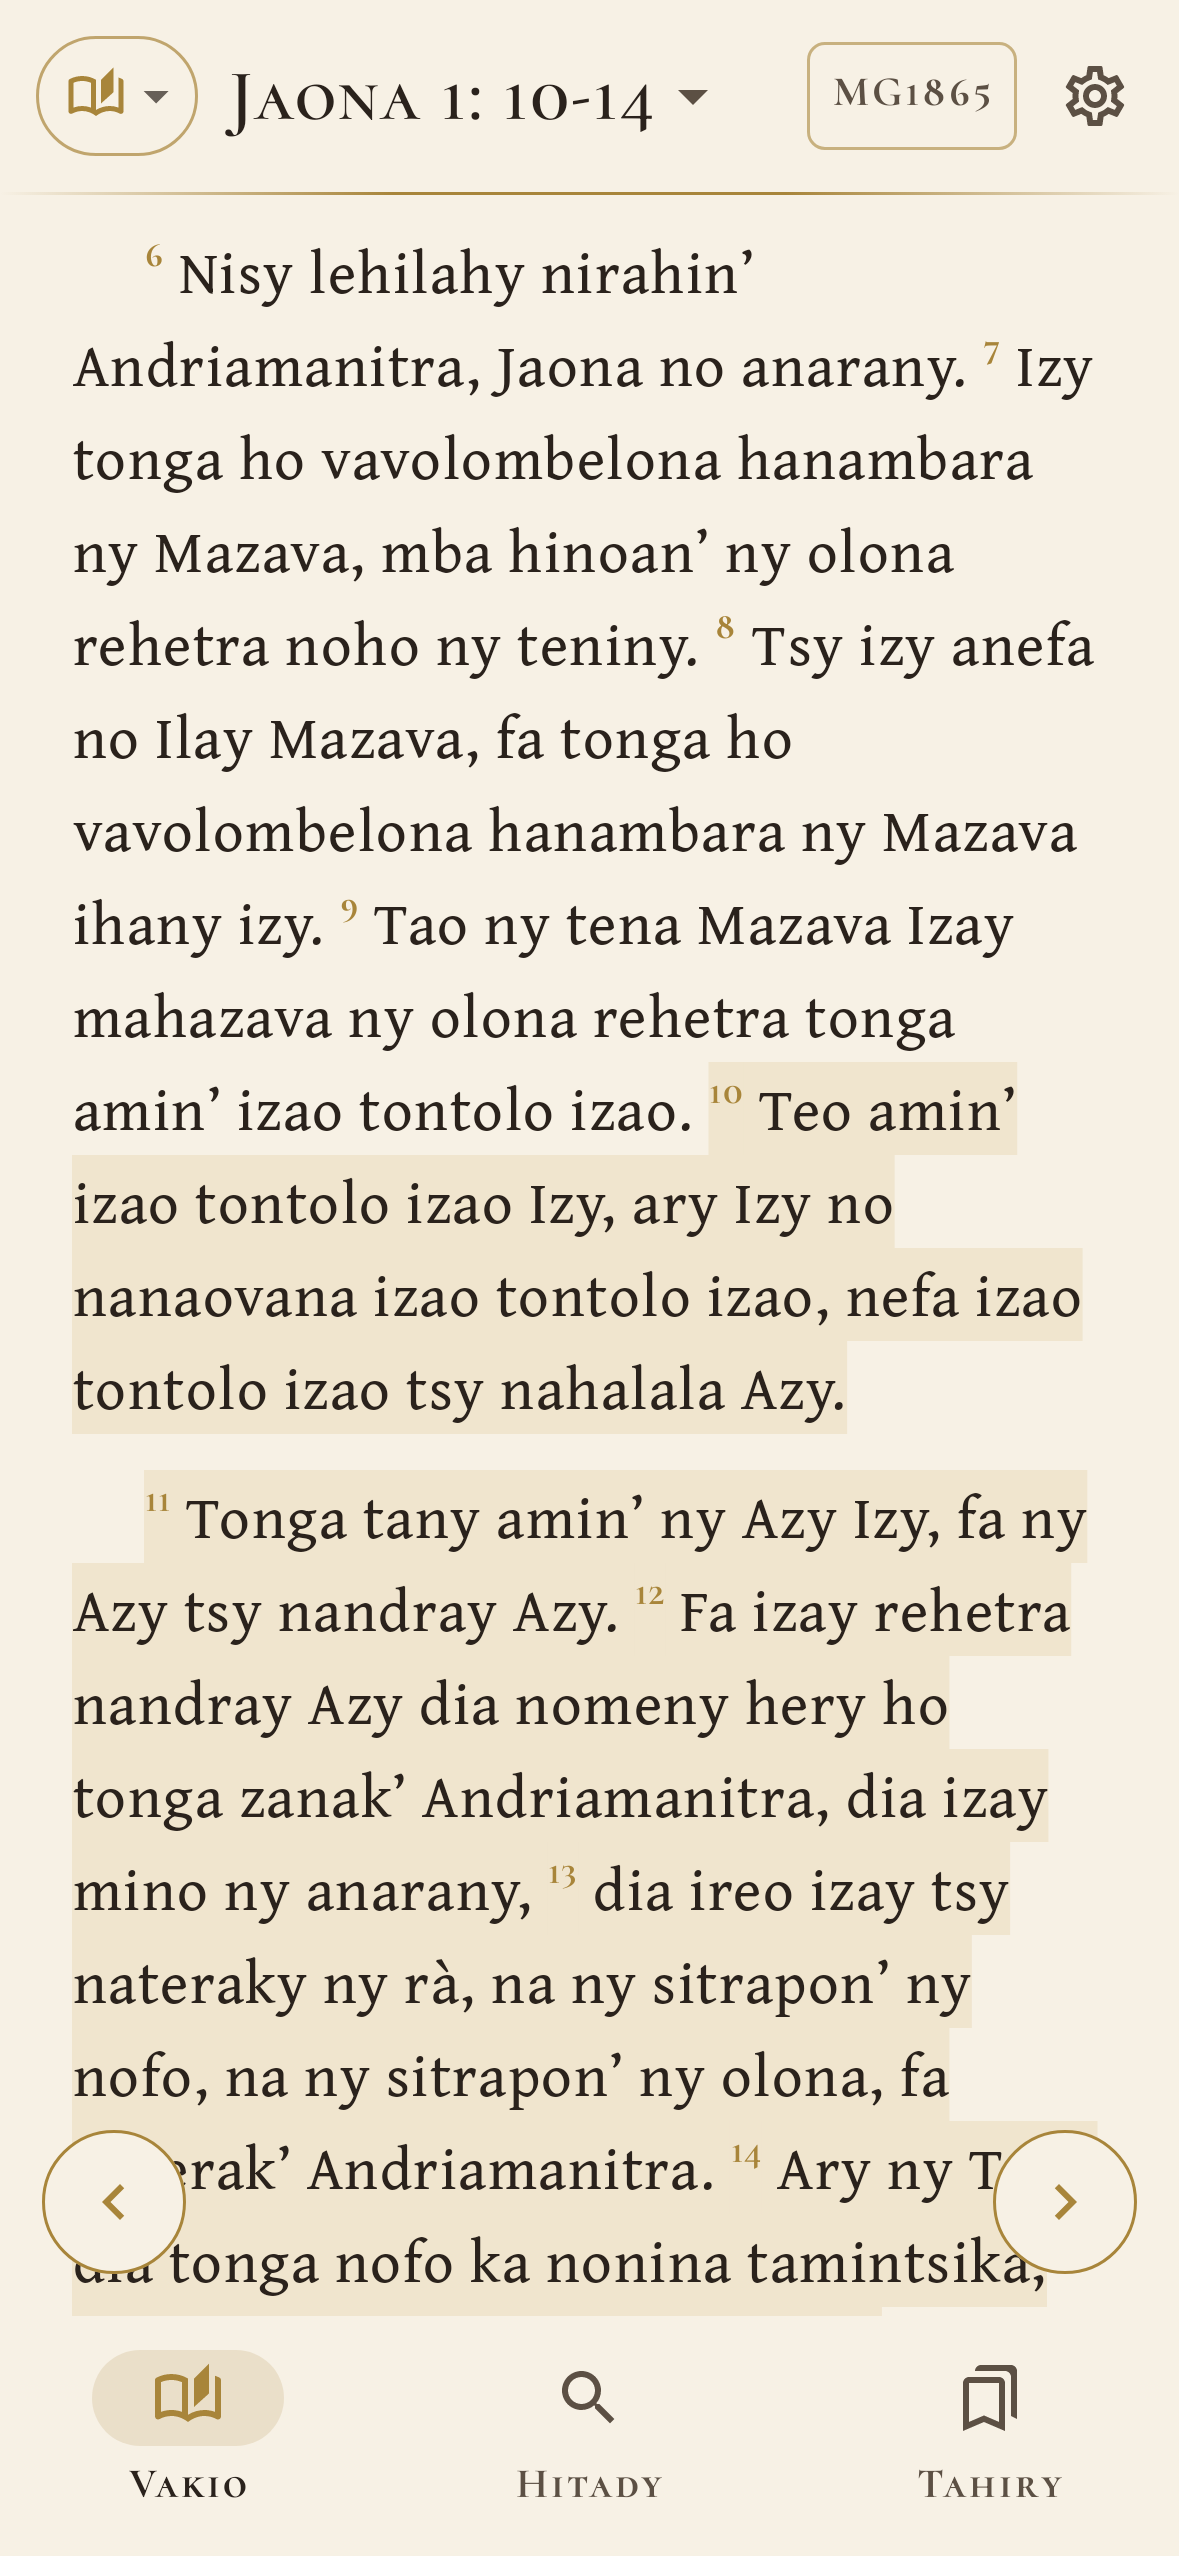
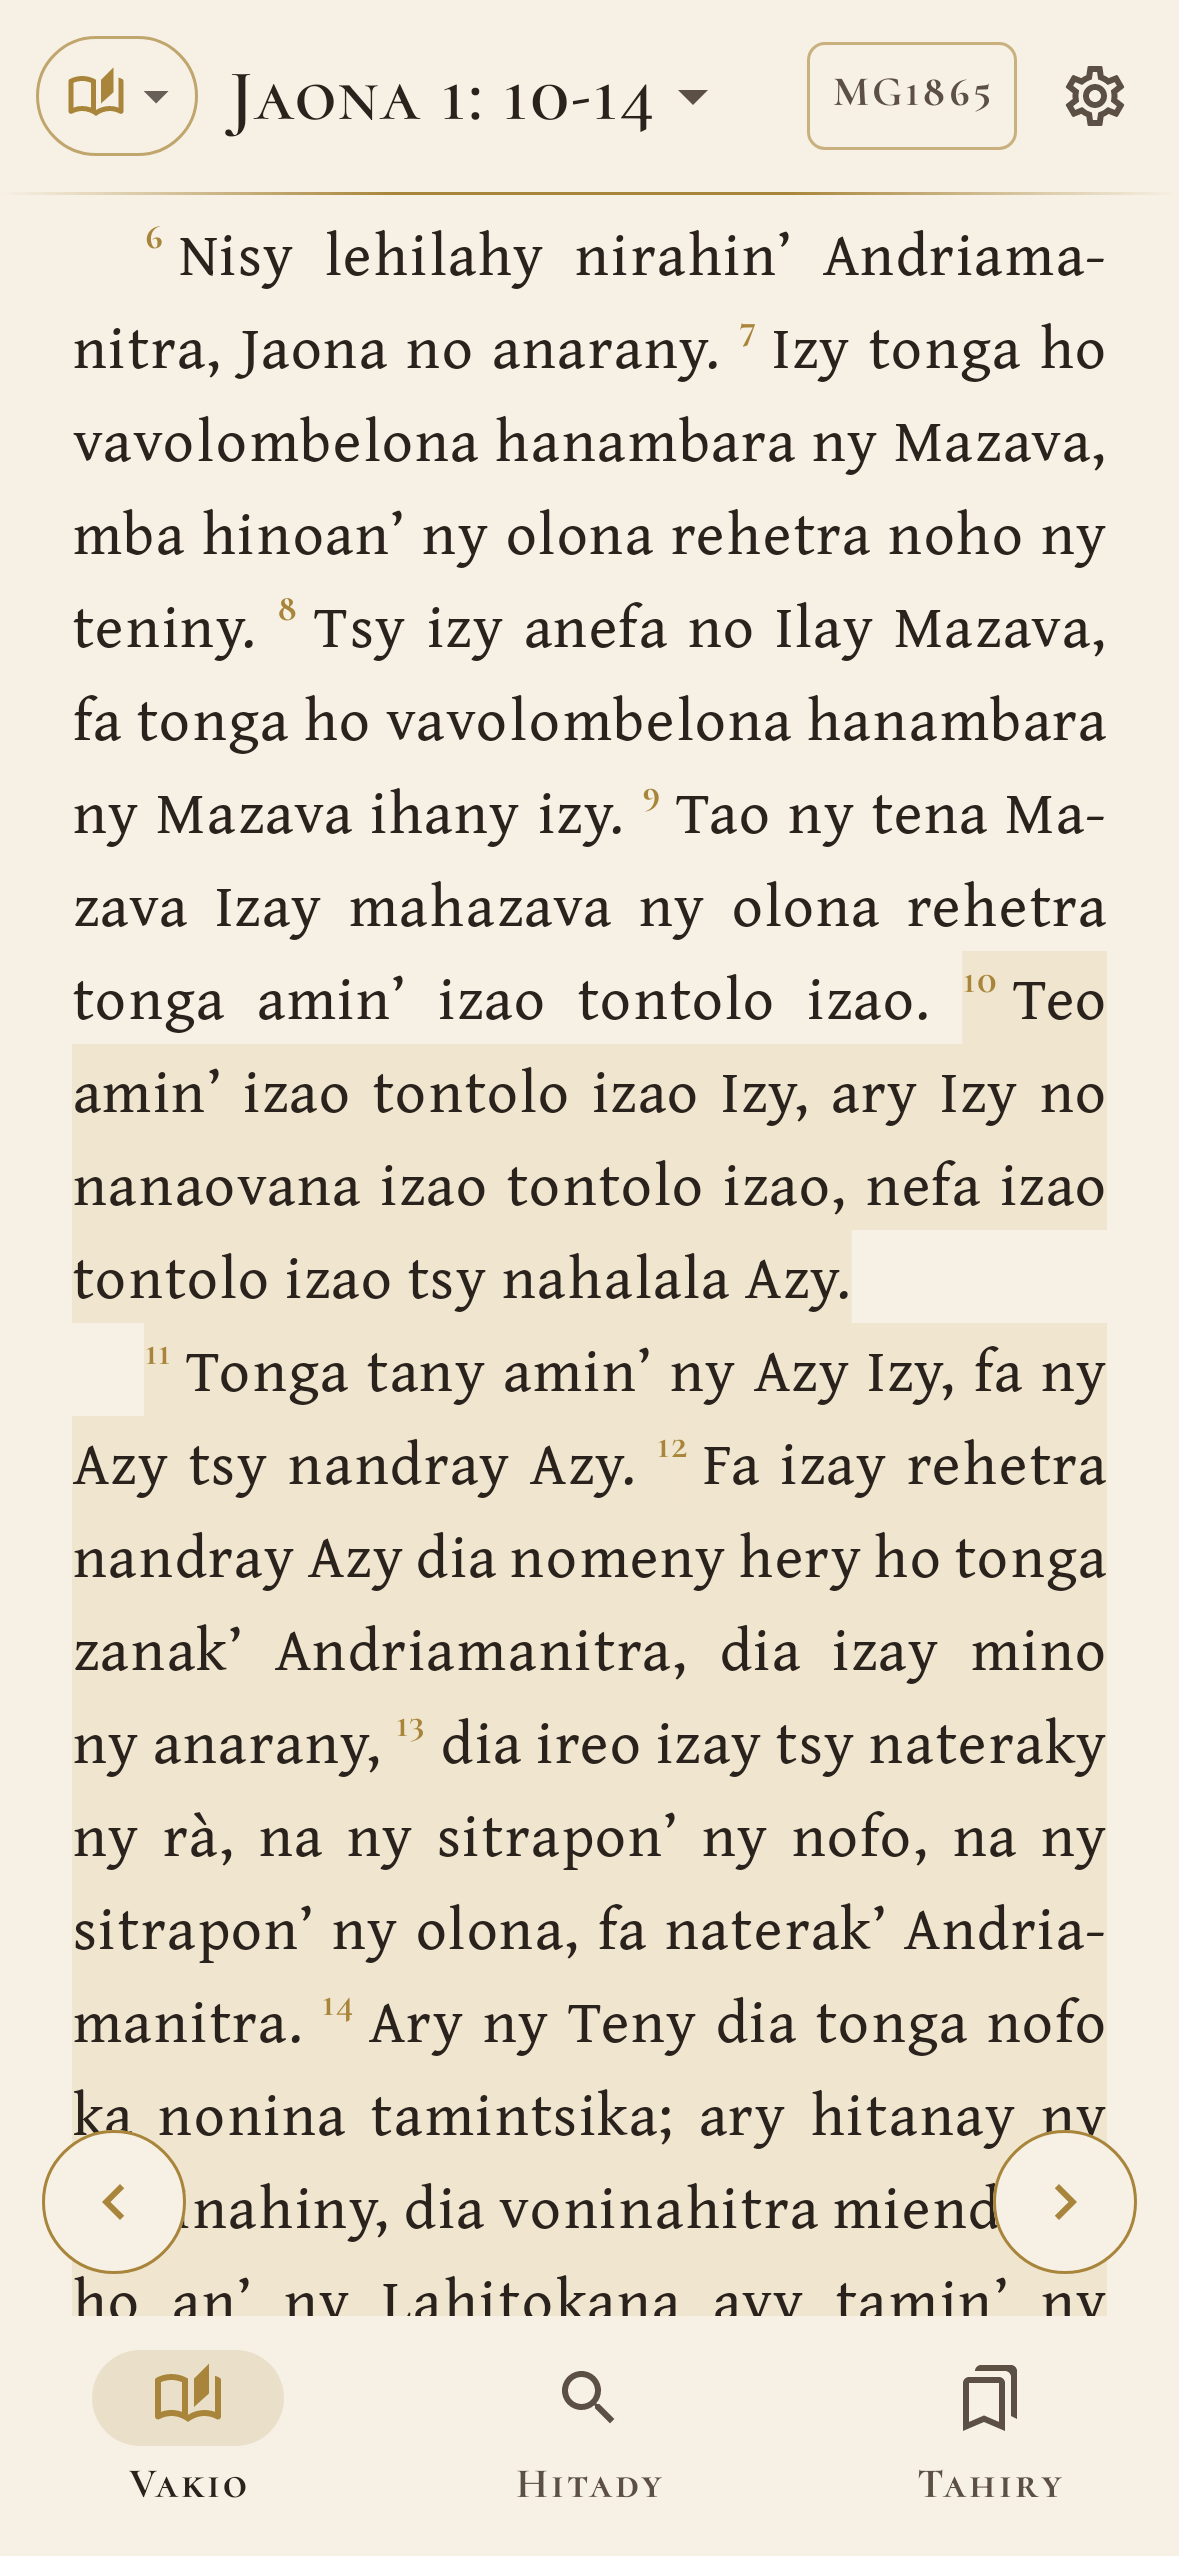
Paragraphs set as a printed page: even margins, justified, hyphenated
Running text is now justified with equal 24 dp margins, and paragraphs are
marked by their indent alone, without a blank gap. Lines break in the text's
own language; Android has no hyphenation patterns for Malagasy, so its
open syllables give the break points (An·dria·ma·ni·tra) as soft hyphens,
which keeps the word spacing even. Highlight offsets map through them.

Claude-Session: https://claude.ai/code/session_01RnUt5oDyTYTFx2j9a35J15

Changed region(s): [[0.0611, 0.0927, 0.9466, 0.9272], [0.0611, 0.8963, 0.1221, 0.9272], [0.8855, 0.8963, 0.916, 0.9272]]

diff --git a/app/src/main/kotlin/mg/baiboly/app/ui/MainScreen.kt b/app/src/main/kotlin/mg/baiboly/app/ui/MainScreen.kt
@@ -10,6 +10,9 @@ import androidx.compose.foundation.gestures.detectTapGestures
 import androidx.compose.ui.text.TextLayoutResult
 import androidx.compose.ui.text.style.BaselineShift
 import androidx.compose.ui.text.style.TextIndent
+import androidx.compose.ui.text.style.Hyphens
+import androidx.compose.ui.text.style.LineBreak
+import androidx.compose.ui.text.intl.LocaleList
 import mg.baiboly.app.VerseLayout
 import androidx.compose.foundation.horizontalScroll
 import androidx.compose.foundation.layout.Arrangement
@@ -717,6 +720,7 @@ private fun Reader(
                 )
                 is ReaderRow.Paragraph -> ParagraphBlock(
                     verses = r.verses,
+                    lang = lang,
                     textSize = textSize,
                     focused = { v -> focus?.contains(v) == true || reading == v },
                     selected = selected,
@@ -839,6 +843,7 @@ private class VerseSpan(val verse: Int, val number: IntRange, val text: IntRange
 @Composable
 private fun ParagraphBlock(
     verses: List<ReaderRow.Verse>,
+    lang: String,
     textSize: Float,
     focused: (Int) -> Boolean,
     selected: Set<Int>,
@@ -854,7 +859,7 @@ private fun ParagraphBlock(
     val initial = dropCaps()
     val titleFamily = TitleSerif
     val marks = verses.map { v -> Triple(focused(v.verse), v.verse in selected, highlights(v.verse)) }
-    val (annotated, spans) = remember(verses, marks, notes.keys, dark, textSize, ornament, initial, selectedWash, titleFamily) {
+    val (annotated, spans) = remember(verses, lang, marks, notes.keys, dark, textSize, ornament, initial, selectedWash, titleFamily) {
         val spans = mutableListOf<VerseSpan>()
         val text = buildAnnotatedString {
             verses.forEachIndexed { i, v ->
@@ -872,13 +877,17 @@ private fun ParagraphBlock(
                 }
                 val numberEnd = length - 1
                 val textStart = length
-                append(v.text)
+                // Malagasy gets its break points here; other languages use the system's patterns
+                val (shown, at) = if (lang == "mg") malagasySoftHyphens(v.text) else v.text to null
+                append(shown)
                 if (dropInitial) addStyle(SpanStyle(fontFamily = titleFamily, fontWeight = FontWeight.Bold,
                     fontSize = (textSize * 1.9f).sp, color = ornament.rubric), textStart, textStart + 1)
                 for ((s, e, colour) in hl) {
                     val c = Color(colour).copy(alpha = if (dark) 0.34f else 0.55f)
-                    val hs = textStart + (s ?: 0).coerceIn(0, v.text.length)
-                    val he = textStart + (e ?: v.text.length).coerceIn(hs - textStart, v.text.length)
+                    val os = (s ?: 0).coerceIn(0, v.text.length)
+                    val oe = (e ?: v.text.length).coerceIn(os, v.text.length)
+                    val hs = textStart + (at?.get(os) ?: os)
+                    val he = textStart + (at?.get(oe) ?: oe)
                     addStyle(SpanStyle(background = c), hs, he)
                 }
                 val textEnd = length
@@ -911,13 +920,22 @@ private fun ParagraphBlock(
         lineHeight = (textSize * LocalReading.current.lineSpacing).sp,
         fontFamily = TextSerif,
         color = MaterialTheme.colorScheme.onSurface,
-        style = MaterialTheme.typography.bodyLarge.copy(textIndent = TextIndent(firstLine = (textSize * 1.2f).sp)),
+        // set as a printed page: justified, hyphenated in the text's own language,
+        // paragraphs marked by their indent alone
+        style = MaterialTheme.typography.bodyLarge.copy(
+            textIndent = TextIndent(firstLine = (textSize * 1.2f).sp),
+            textAlign = TextAlign.Justify,
+            hyphens = Hyphens.Auto,
+            lineBreak = LineBreak.Paragraph,
+            localeList = LocaleList(lang),
+        ),
         onTextLayout = { layout = it },
         modifier = Modifier
             .fillMaxWidth()
             .testTag("paragraph:$first")
             // inside the padding, so tap positions match the text layout
-            .padding(start = 20.dp, top = 6.dp, bottom = 6.dp, end = 4.dp)
+            // with the list's own padding (4 left, 18 right): 24 dp margins on both sides
+            .padding(start = 20.dp, end = 6.dp)
             .pointerInput(spans, notes) {
                 detectTapGestures { pos ->
                     val l = layout ?: return@detectTapGestures

diff --git a/app/src/main/kotlin/mg/baiboly/app/ui/Hyphenation.kt b/app/src/main/kotlin/mg/baiboly/app/ui/Hyphenation.kt
@@ -1,0 +1,46 @@
+package mg.baiboly.app.ui
+
+/**
+ * Break points for Malagasy, which Android has no hyphenation patterns for.
+ *
+ * Malagasy syllables are open: every consonant group (b, mb, ndr, ts, ntr…)
+ * belongs to the vowel after it, so a word may break before any consonant
+ * group that stands between two vowels: An·dria·ma·ni·tra. Soft hyphens
+ * (U+00AD) are invisible unless the line breaks there.
+ *
+ * Returns the text with soft hyphens and, for each index of the original text,
+ * its index in the new one (one entry more than the text, for the end), so
+ * highlight ranges and taps stay on the right characters.
+ */
+internal fun malagasySoftHyphens(text: String, minBefore: Int = 2, minAfter: Int = 3): Pair<String, IntArray> {
+    val map = IntArray(text.length + 1)
+    val out = StringBuilder(text.length + text.length / 4)
+    var i = 0
+    while (i < text.length) {
+        if (!text[i].isLetter()) { map[i] = out.length; out.append(text[i]); i++; continue }
+        // one word: a run of letters (an apostrophe or hyphen ends it)
+        var end = i
+        while (end < text.length && text[end].isLetter()) end++
+        val breaks = HashSet<Int>()
+        var k = i + 1
+        while (k < end) {
+            if (isVowel(text[k - 1]) && !isVowel(text[k])) {
+                var c = k
+                while (c < end && !isVowel(text[c])) c++
+                // consonants then a vowel: break before the consonant group
+                if (c < end && k - i >= minBefore && end - k >= minAfter) breaks += k
+                k = c
+            } else k++
+        }
+        for (j in i until end) {
+            if (j in breaks) out.append('')
+            map[j] = out.length
+            out.append(text[j])
+        }
+        i = end
+    }
+    map[text.length] = out.length
+    return out.toString() to map
+}
+
+private fun isVowel(c: Char): Boolean = c.lowercaseChar() in "aeiouyàâäéèêëìîïòôöùûüỳ"

diff --git a/app/src/test/kotlin/mg/baiboly/app/ui/HyphenationTest.kt b/app/src/test/kotlin/mg/baiboly/app/ui/HyphenationTest.kt
@@ -1,0 +1,25 @@
+package mg.baiboly.app.ui
+
+import org.junit.Test
+import kotlin.test.assertEquals
+
+class HyphenationTest {
+    private fun shown(t: String) = malagasySoftHyphens(t).first.replace('', '·')
+
+    @Test fun openSyllables() {
+        // consonant groups go with the vowel after them; no break leaves fewer than 2 or 3 letters
+        assertEquals("Andria·ma·ni·tra", shown("Andriamanitra"))
+        assertEquals("va·vo·lo·mbe·lona", shown("vavolombelona"))
+        assertEquals("ha·na·mbara", shown("hanambara"))
+        assertEquals("ny Azy tsy", shown("ny Azy tsy"))
+        // an apostrophe ends a word
+        assertEquals("za·nak’ Andria·ma·ni·tra,", shown("zanak’ Andriamanitra,"))
+    }
+
+    @Test fun mapKeepsOriginalOffsets() {
+        val text = "Teo amin’ izao tontolo izao"
+        val (out, map) = malagasySoftHyphens(text)
+        for (i in text.indices) assertEquals(text[i], out[map[i]])
+        assertEquals(out.length, map[text.length])
+    }
+}
